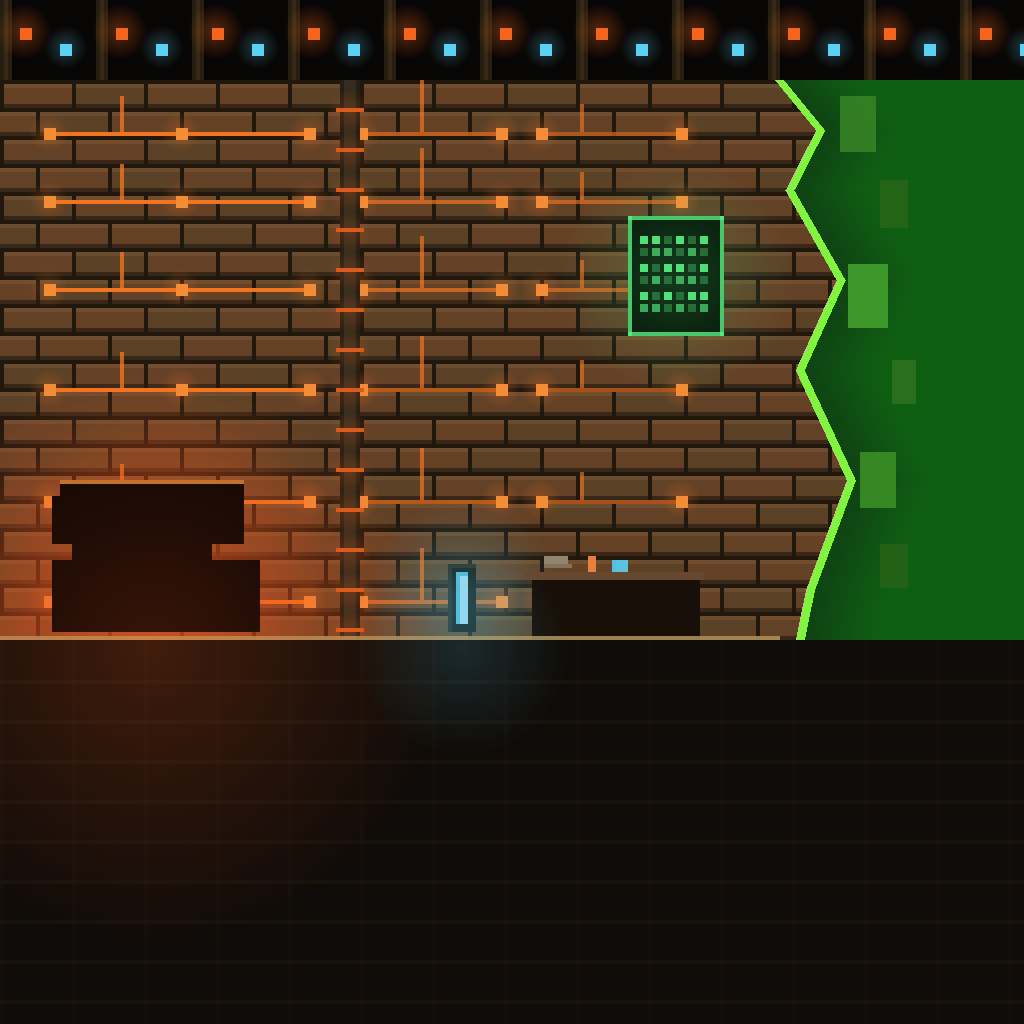
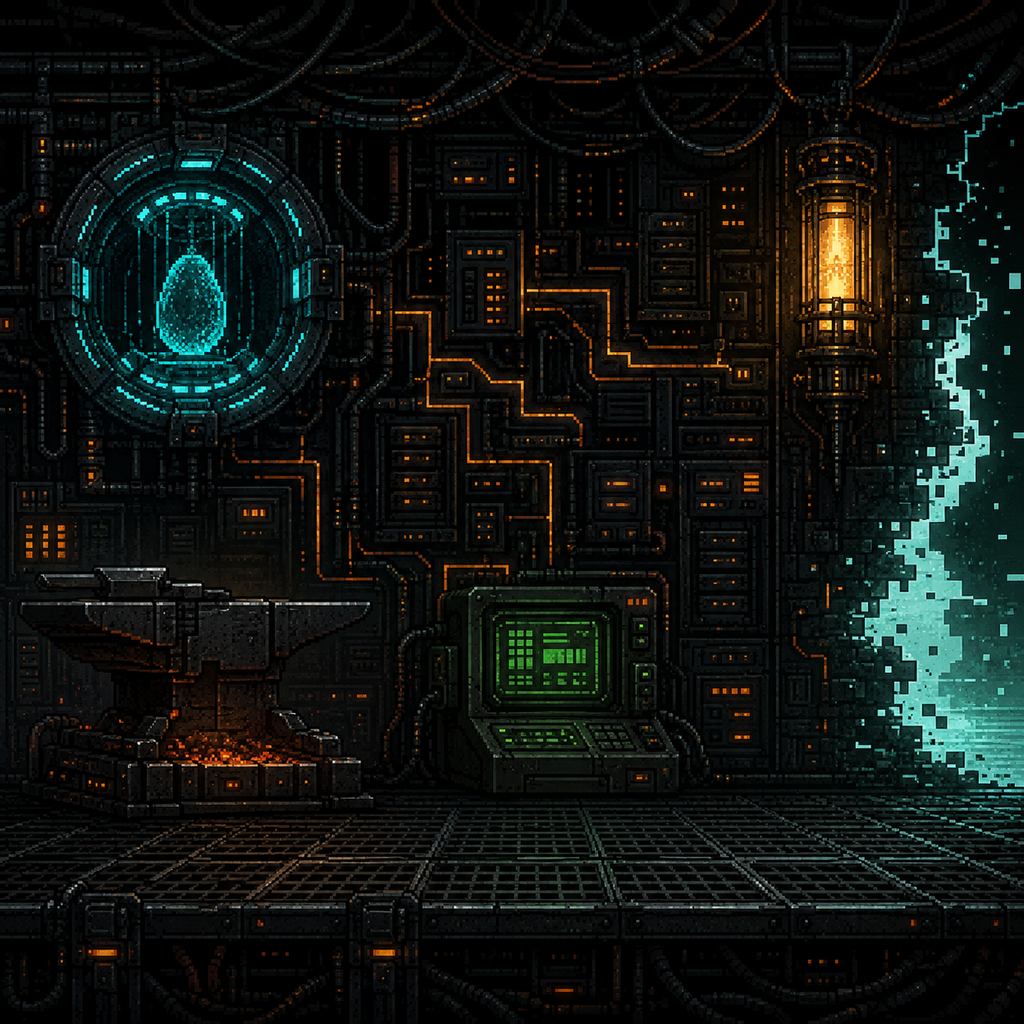
Art: replace CSS-blob Forge with pixel art background + Skye sprite
Replaces the warm-brown brick CSS-blob Forge (visually inconsistent with
the cold terminal/neon aesthetic) with:
- forge_bg.png: 1024x1024 cold-palette pixel art hardware bay (dark circuits,
  cyan hatchery ring, ember anvil, green CRT, amber lantern, teal render-breach)
- skye.png: 197x512 RGBA chibi Skye character sprite, teal flight suit, keyed

Code changes:
- ForgeScene.jsx: SkyeSprite now renders <img> from assetUrl instead of CSS blobs
- forge.css: remove ::before/::after blob pseudo-elements; lighten overlay from
  50% warm-brown to 22% neutral so pixel art palette reads through; add
  .forge-skye-sprite img styles; reduce wall-texture opacity from 0.55 to 0.14

178/178 tests pass.

diff --git a/src/styles/forge.css b/src/styles/forge.css
@@ -8,7 +8,7 @@
   font-family: monospace;
   color: #f0e6d2;
   background:
-    linear-gradient(180deg, rgba(26, 18, 8, 0.50) 0%, rgba(42, 29, 20, 0.38) 58%, rgba(58, 42, 31, 0.32) 100%),
+    linear-gradient(180deg, rgba(0, 0, 0, 0.22) 0%, rgba(0, 0, 0, 0.06) 55%, rgba(0, 0, 0, 0.18) 100%),
     var(--forge-bg-url) center / cover no-repeat,
     linear-gradient(180deg, var(--forge-wall) 0%, var(--forge-floor) 60%, var(--forge-floor-accent) 100%);
 }
@@ -91,7 +91,7 @@
   height: 100%;
 }
 
-/* Stone block pattern over the upper wall area */
+/* Subtle pixel-grid overlay over the upper wall — kept light so pixel art background reads through */
 .forge-wall-texture {
   position: absolute;
   inset: 0 14% 48% 0;
@@ -99,7 +99,7 @@
   background-image:
     repeating-linear-gradient(0deg, transparent 0 16px, rgba(0, 0, 0, 0.18) 16px 18px),
     repeating-linear-gradient(90deg, transparent 0 30px, rgba(0, 0, 0, 0.13) 30px 32px);
-  opacity: 0.55;
+  opacity: 0.14;
   z-index: 0;
 }
 
@@ -344,43 +344,23 @@
 
 .forge-skye {
   position: absolute;
-  width: 3%;
-  min-width: 18px;
-  height: 6.5%;
-  min-height: 32px;
-  background: transparent;
+  width: 4%;
+  min-width: 22px;
+  height: 12%;
+  min-height: 52px;
   border: none;
   transition: left 80ms linear, top 80ms linear;
   z-index: 5;
   animation: skyeIdle 2.6s ease-in-out infinite;
 }
 
-/* Head */
-.forge-skye::before {
-  content: '';
-  position: absolute;
-  left: 20%;
-  top: 0;
-  width: 60%;
-  height: 36%;
-  background: #e8c787;
-  border: 1.5px solid #2a1d14;
-  border-radius: 50% 50% 40% 40%;
-  box-shadow: 0 0 5px rgba(232, 199, 135, 0.35);
-}
-
-/* Body — tech flight suit */
-.forge-skye::after {
-  content: '';
-  position: absolute;
-  left: 12%;
-  top: 33%;
-  width: 76%;
-  height: 64%;
-  background: #3a5a4a;
-  border: 1.5px solid #2a1d14;
-  border-radius: 1px 1px 3px 3px;
-  box-shadow: 0 2px 0 #1a1310, inset 2px 0 0 rgba(94, 220, 255, 0.18);
+.forge-skye-sprite {
+  width: 100%;
+  height: 100%;
+  object-fit: contain;
+  object-position: bottom center;
+  image-rendering: pixelated;
+  display: block;
 }
 
 .forge-proximity-hud {

diff --git a/src/forge/ForgeScene.jsx b/src/forge/ForgeScene.jsx
@@ -1,4 +1,5 @@
 import { FORGE_PALETTE, FORGE_STATIONS, STATION_IDS } from '../forgeData';
+import { assetUrl } from '../utils';
 
 export default function ForgeScene({ skyePos, nearest, view }) {
   return (
@@ -186,10 +187,17 @@ function SkyeSprite({ pos }) {
   return (
     <div
       className="forge-skye"
-      style={{ left: `${pos.x - 1.5}%`, top: `${pos.y - 3}%` }}
+      style={{ left: `${pos.x - 2}%`, top: `${pos.y - 10}%` }}
       aria-label="Skye"
       data-testid="forge-skye"
-    />
+    >
+      <img
+        src={assetUrl('/assets/characters/skye.png')}
+        className="forge-skye-sprite"
+        alt=""
+        draggable={false}
+      />
+    </div>
   );
 }
 